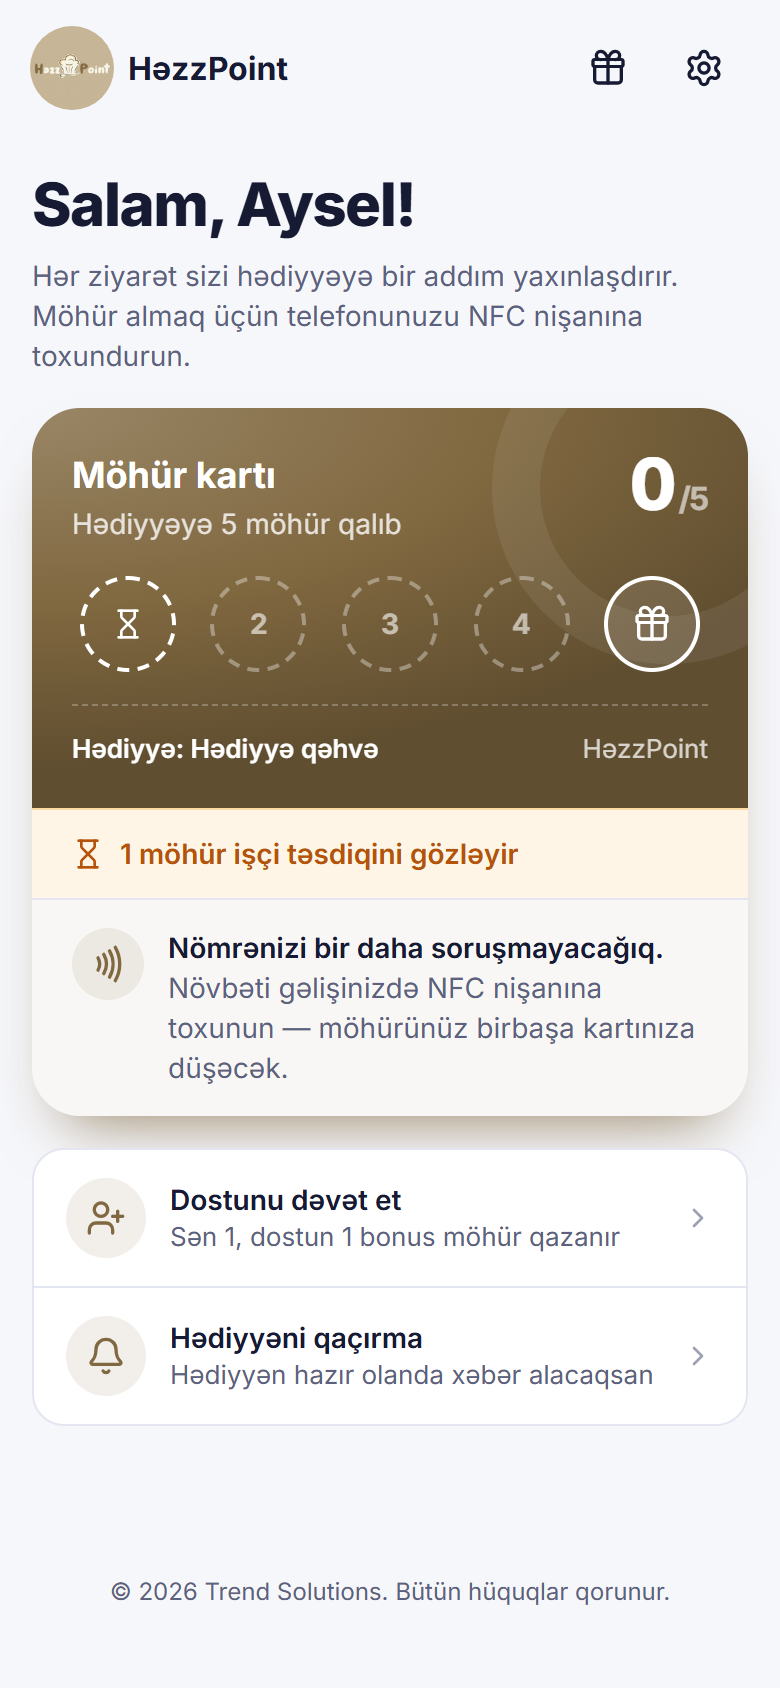
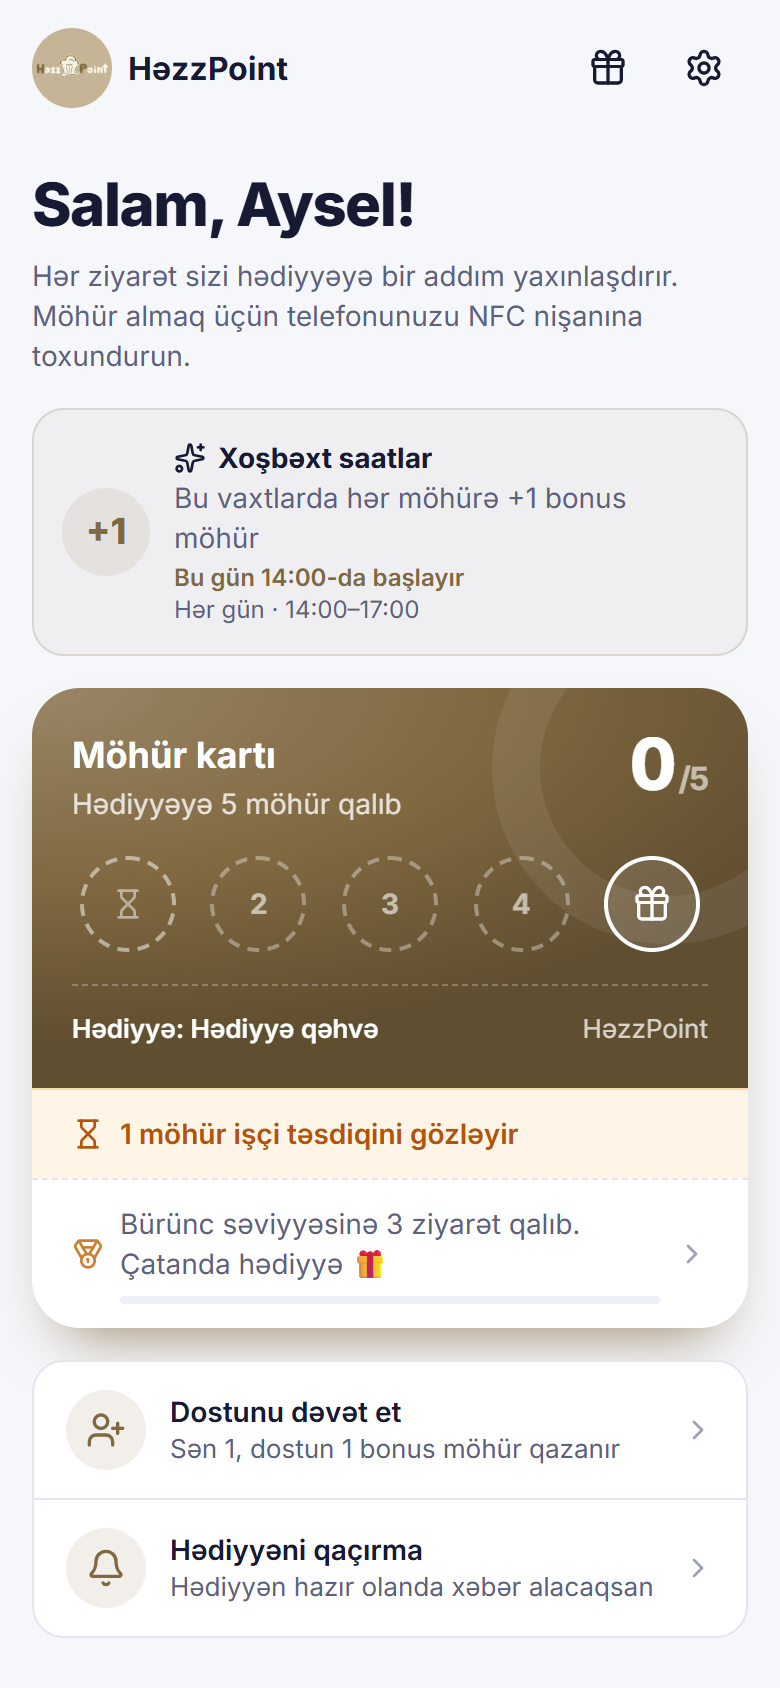
feat(site): refresh app and admin screenshots with the current UI

diff --git a/site/assets/site.js b/site/assets/site.js
@@ -42,7 +42,7 @@ az:{
  'form.submit':'Müraciət göndər','form.consent':'Müraciət göndərməklə məlumatlarınızın yalnız sizinlə əlaqə saxlamaq üçün istifadə olunmasına razılıq verirsiniz.',
  'form.doneT':'Müraciətiniz qəbul olundu','form.doneP':'Bir iş günü ərzində sizinlə əlaqə saxlayacağıq.',
  'contact.title':'Sualınız var?','contact.sub':'Bizə yazın və ya zəng edin.','contact.email':'Email','contact.phone':'Telefon',
- 'shots.kicker':'Real ekranlar','shots.title':'Müştəri və işçi nə görür','shots.card':'Müştərinin möhür kartı','shots.wait':'Möhür işçi təsdiqini gözləyir','shots.admin':'Statistika: müştərilər, möhürlər, geri qayıtma','shots.cardAlt':'Telefonda möhür kartı: 5 möhürdən 3-ü toplanıb','shots.waitAlt':'Telefonda möhür kartı: 1 möhür işçi təsdiqini gözləyir','shots.adminAlt':'İdarəetmə panelində göstəricilər səhifəsi',
+ 'shots.kicker':'Real ekranlar','shots.title':'Müştəri və işçi nə görür','shots.card':'Müştərinin möhür kartı','shots.wait':'Möhür işçi təsdiqini gözləyir','shots.admin':'Statistika: müştərilər, möhürlər, geri qayıtma','shots.cardAlt':'Telefonda möhür kartı: 5 möhürdən 4-ü toplanıb, bonus saatları gedir','shots.waitAlt':'Telefonda möhür kartı: 1 möhür işçi təsdiqini gözləyir','shots.adminAlt':'İdarəetmə panelində göstəricilər səhifəsi',
  'clients.kicker':'Müştərilərimiz','clients.title':'TrendStamp-dan istifadə edən bizneslər','clients.hezz':'Şirniyyat evi',
  'footer.copy':'© 2026 Trend Solutions. Bütün hüquqlar qorunur.'
 },
@@ -88,7 +88,7 @@ en:{
  'form.submit':'Send request','form.consent':'By sending this request, you agree that we use your details only to contact you.',
  'form.doneT':'Request received','form.doneP':'We’ll contact you within one business day.',
  'contact.title':'Have a question?','contact.sub':'Write to us or give us a call.','contact.email':'Email','contact.phone':'Phone',
- 'shots.kicker':'Real screens','shots.title':'What customers and staff see','shots.card':'The customer’s stamp card','shots.wait':'A stamp waiting for staff approval','shots.admin':'Analytics: customers, stamps, return rate','shots.cardAlt':'Stamp card on a phone: 3 of 5 stamps collected','shots.waitAlt':'Stamp card on a phone: 1 stamp waiting for staff approval','shots.adminAlt':'Dashboard page of the admin panel',
+ 'shots.kicker':'Real screens','shots.title':'What customers and staff see','shots.card':'The customer’s stamp card','shots.wait':'A stamp waiting for staff approval','shots.admin':'Analytics: customers, stamps, return rate','shots.cardAlt':'Stamp card on a phone: 4 of 5 stamps collected during bonus hours','shots.waitAlt':'Stamp card on a phone: 1 stamp waiting for staff approval','shots.adminAlt':'Dashboard page of the admin panel',
  'clients.kicker':'Our clients','clients.title':'Businesses using TrendStamp','clients.hezz':'Pastry shop',
  'footer.copy':'© 2026 Trend Solutions. All rights reserved.'
 },
@@ -134,7 +134,7 @@ ru:{
  'form.submit':'Отправить заявку','form.consent':'Отправляя заявку, вы соглашаетесь, что мы используем ваши данные только для связи с вами.',
  'form.doneT':'Заявка принята','form.doneP':'Мы свяжемся с вами в течение одного рабочего дня.',
  'contact.title':'Есть вопросы?','contact.sub':'Напишите или позвоните нам.','contact.email':'Email','contact.phone':'Телефон',
- 'shots.kicker':'Реальные экраны','shots.title':'Что видят клиент и сотрудник','shots.card':'Карта штампов клиента','shots.wait':'Штамп ждёт подтверждения сотрудника','shots.admin':'Статистика: клиенты, штампы, возвраты','shots.cardAlt':'Карта штампов на телефоне: собрано 3 из 5','shots.waitAlt':'Карта штампов на телефоне: 1 штамп ждёт подтверждения','shots.adminAlt':'Страница показателей в панели управления',
+ 'shots.kicker':'Реальные экраны','shots.title':'Что видят клиент и сотрудник','shots.card':'Карта штампов клиента','shots.wait':'Штамп ждёт подтверждения сотрудника','shots.admin':'Статистика: клиенты, штампы, возвраты','shots.cardAlt':'Карта штампов на телефоне: собрано 4 из 5, идут бонусные часы','shots.waitAlt':'Карта штампов на телефоне: 1 штамп ждёт подтверждения','shots.adminAlt':'Страница показателей в панели управления',
  'clients.kicker':'Наши клиенты','clients.title':'Компании, которые используют TrendStamp','clients.hezz':'Кондитерская',
  'footer.copy':'© 2026 Trend Solutions. Все права защищены.'
 }};
